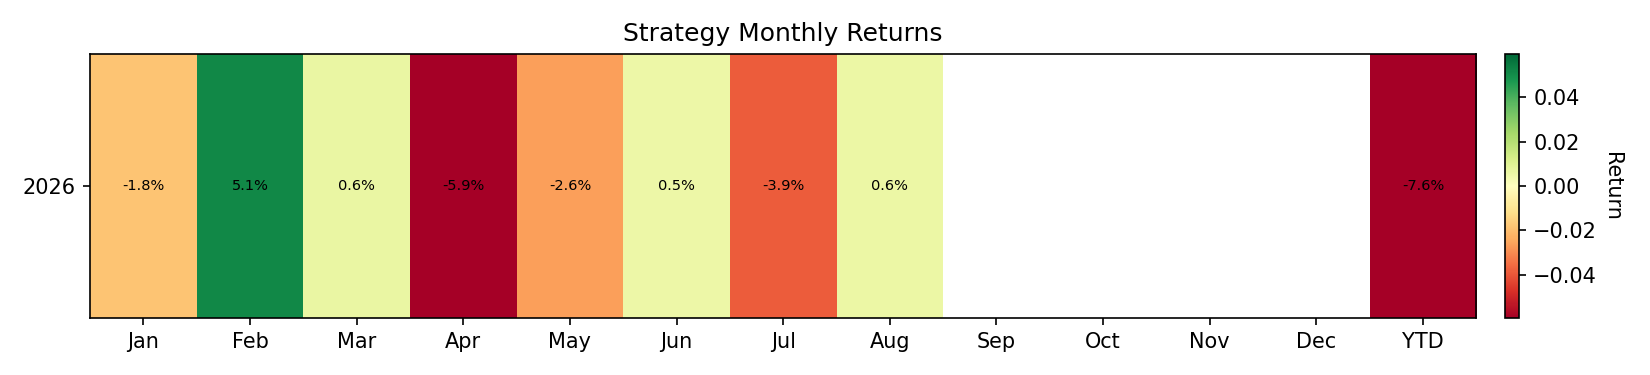
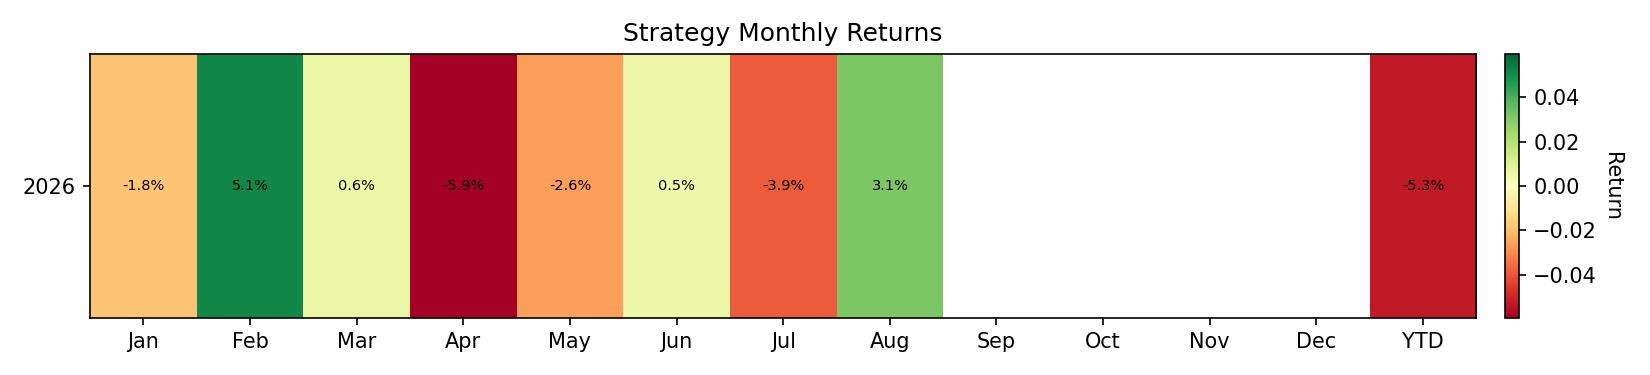
Update reports: 2026-08-22 00:00:19 UTC

Changed region(s): [[0.8036, 0.1467, 0.8964, 0.8507], [0.4945, 0.1467, 0.5873, 0.8507]]

diff --git a/README.md b/README.md
@@ -22,28 +22,28 @@ All results are live and reported net of transaction costs and slippage.
 - CSV: `metrics_strategy.csv`
 
 <!-- METRICS_START -->
-| metric                       |       values |
-|:-----------------------------|-------------:|
-| Number of Observations       | 206          |
-| Mean Daily Return            |  -0.00034904 |
-| Daily Volatility             |   0.00818247 |
-| Mean Annualized Return       |  -0.127399   |
-| Annualized Volatility        |   0.156326   |
-| Maximum Drawdown             |  -0.156146   |
-| Max Drawdown Duration (Days) | 177          |
-| Sharpe                       |  -0.814961   |
-| Sortino                      |  -1.11671    |
-| Calmar                       |  -0.8159     |
-| CAGR                         |  -0.130252   |
-| Skewness                     |   0.647848   |
-| Excess Kurtosis              |   8.92915    |
-| Win Rate                     |   0.480583   |
-| Profit Factor                |   0.874779   |
-| VaR 1%                       |  -0.0268076  |
-| CVaR 1%                      |  -0.0295742  |
-| VaR 5%                       |  -0.0111456  |
-| CVaR 5%                      |  -0.0195073  |
-| Correlation with BTC         |  -0.0137095  |
+| metric                       |        values |
+|:-----------------------------|--------------:|
+| Number of Observations       | 207           |
+| Mean Daily Return            |  -0.000226007 |
+| Daily Volatility             |   0.00835231  |
+| Mean Annualized Return       |  -0.0824926   |
+| Annualized Volatility        |   0.159571    |
+| Maximum Drawdown             |  -0.156146    |
+| Max Drawdown Duration (Days) | 178           |
+| Sharpe                       |  -0.516966    |
+| Sortino                      |  -0.723082    |
+| Calmar                       |  -0.528304    |
+| CAGR                         |  -0.0907483   |
+| Skewness                     |   0.700476    |
+| Excess Kurtosis              |   8.31825     |
+| Win Rate                     |   0.483092    |
+| Profit Factor                |   0.918524    |
+| VaR 1%                       |  -0.0267945   |
+| CVaR 1%                      |  -0.0295742   |
+| VaR 5%                       |  -0.0111083   |
+| CVaR 5%                      |  -0.0195073   |
+| Correlation with BTC         |  -0.0137707   |
 <!-- METRICS_END -->
 
 ## Sharpe Statistics
@@ -55,14 +55,14 @@ All results are live and reported net of transaction costs and slippage.
 | metric                     |   values |
 |:---------------------------|---------:|
 | alpha                      |   0.05   |
-| t-statistic                |  -0.6122 |
-| p-value                    |   0.5411 |
-| Daily Sharpe Ratio         |  -0.0427 |
-| Annualized Sharpe Ratio    |  -0.815  |
-| Sharpe Standard Error      |   1.3559 |
-| C.I. Lower Bound           |  -3.4725 |
-| C.I. Upper Bound           |   1.8426 |
-| Bootstrap C.I. Lower Bound |  -3.8358 |
-| Bootstrap C.I. Upper Bound |   2.5578 |
+| t-statistic                |  -0.3893 |
+| p-value                    |   0.6974 |
+| Daily Sharpe Ratio         |  -0.0271 |
+| Annualized Sharpe Ratio    |  -0.517  |
+| Sharpe Standard Error      |   1.3449 |
+| C.I. Lower Bound           |  -3.1529 |
+| C.I. Upper Bound           |   2.119  |
+| Bootstrap C.I. Lower Bound |  -3.2776 |
+| Bootstrap C.I. Upper Bound |   2.6239 |
 <!-- SHARPE_END -->
 
